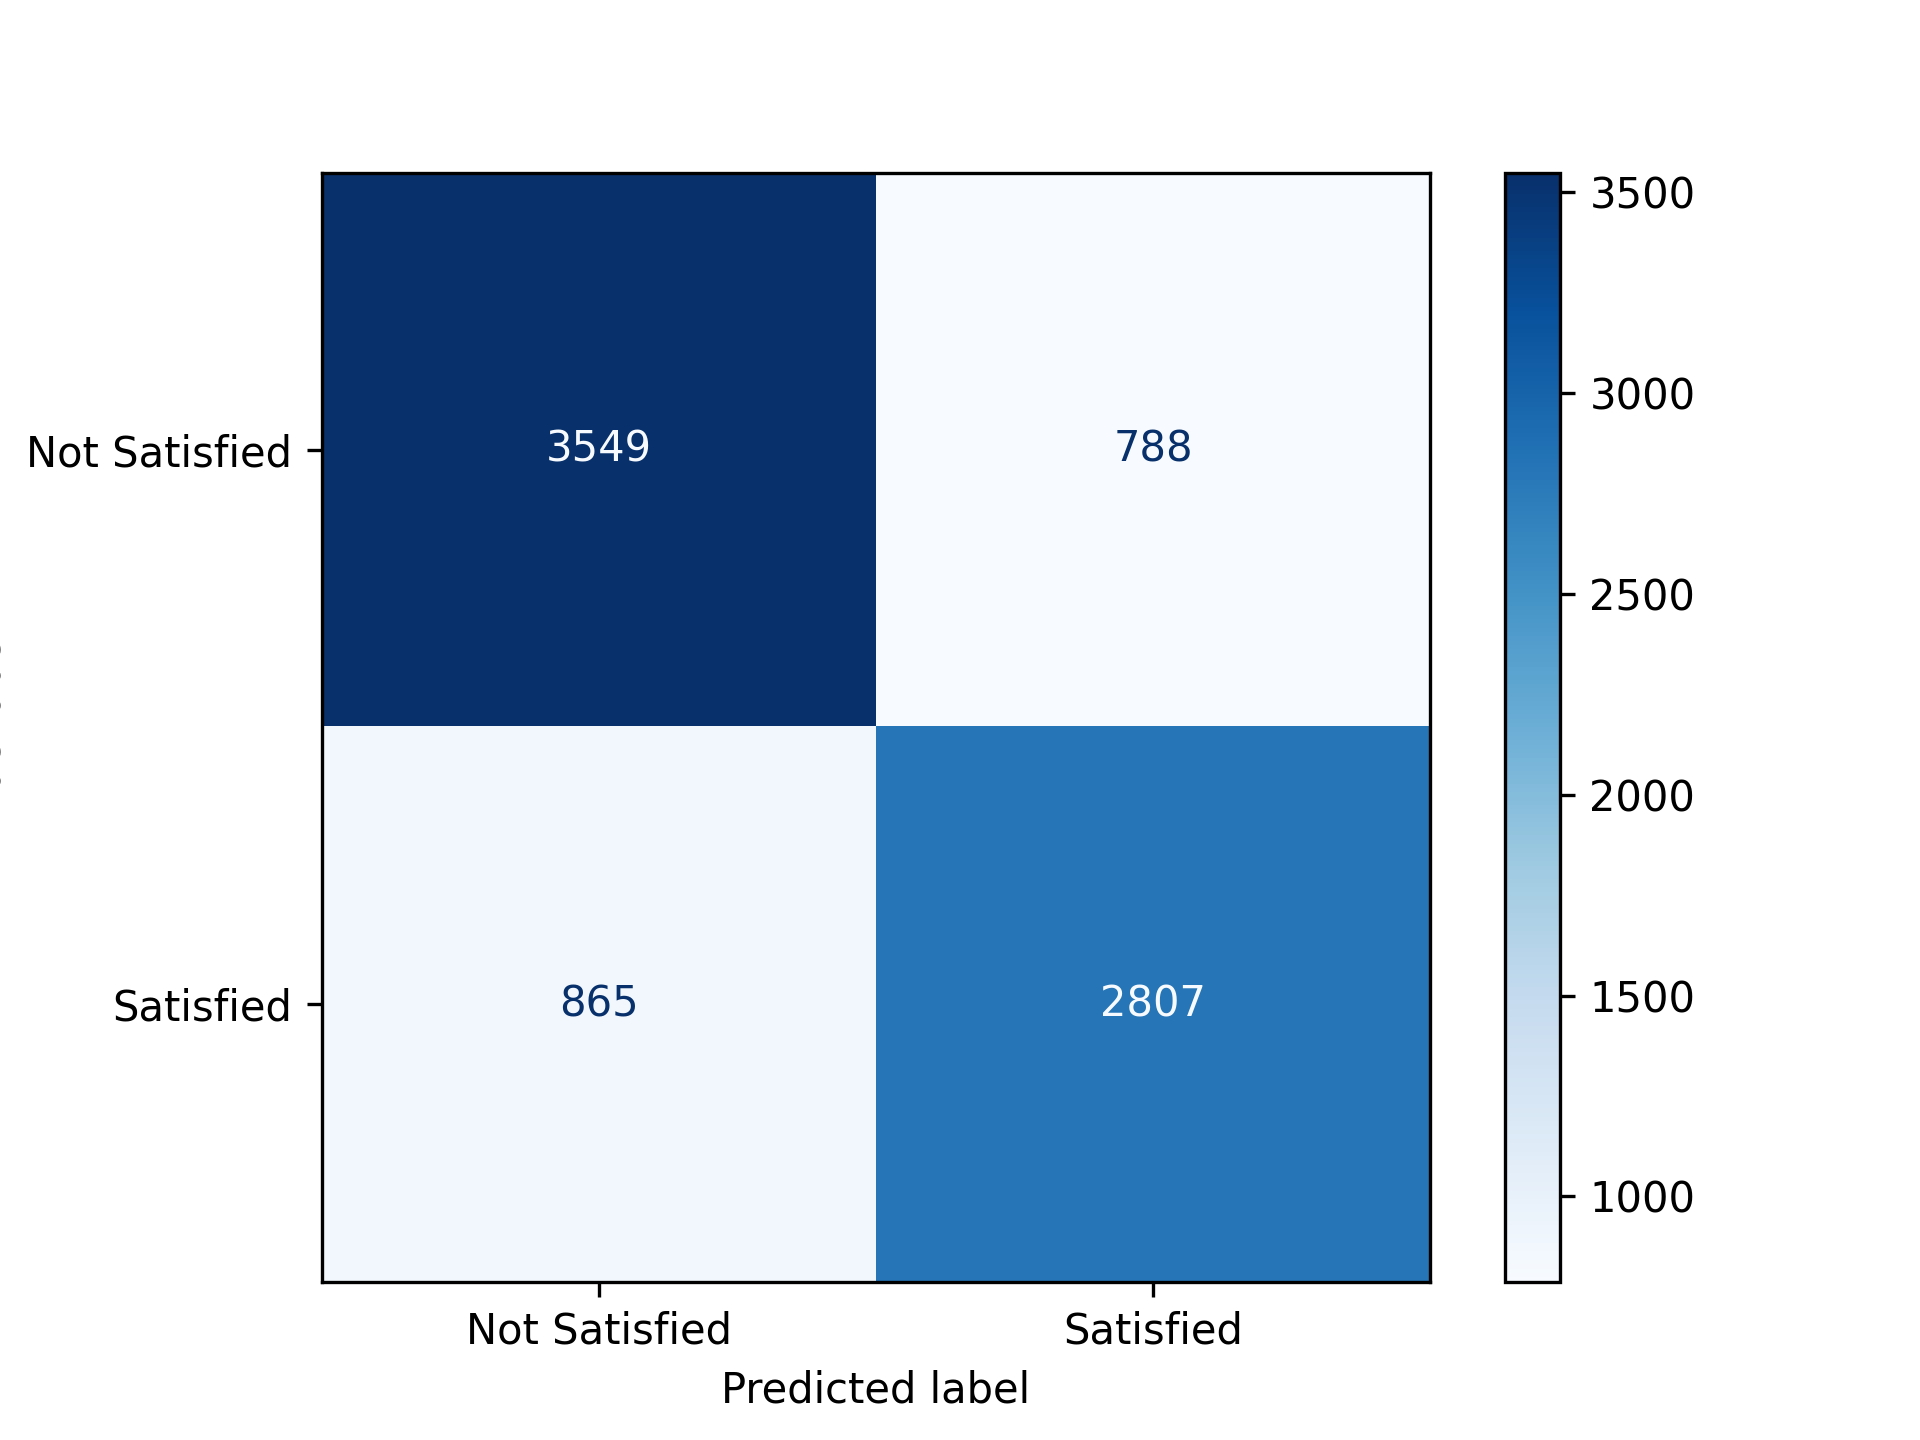
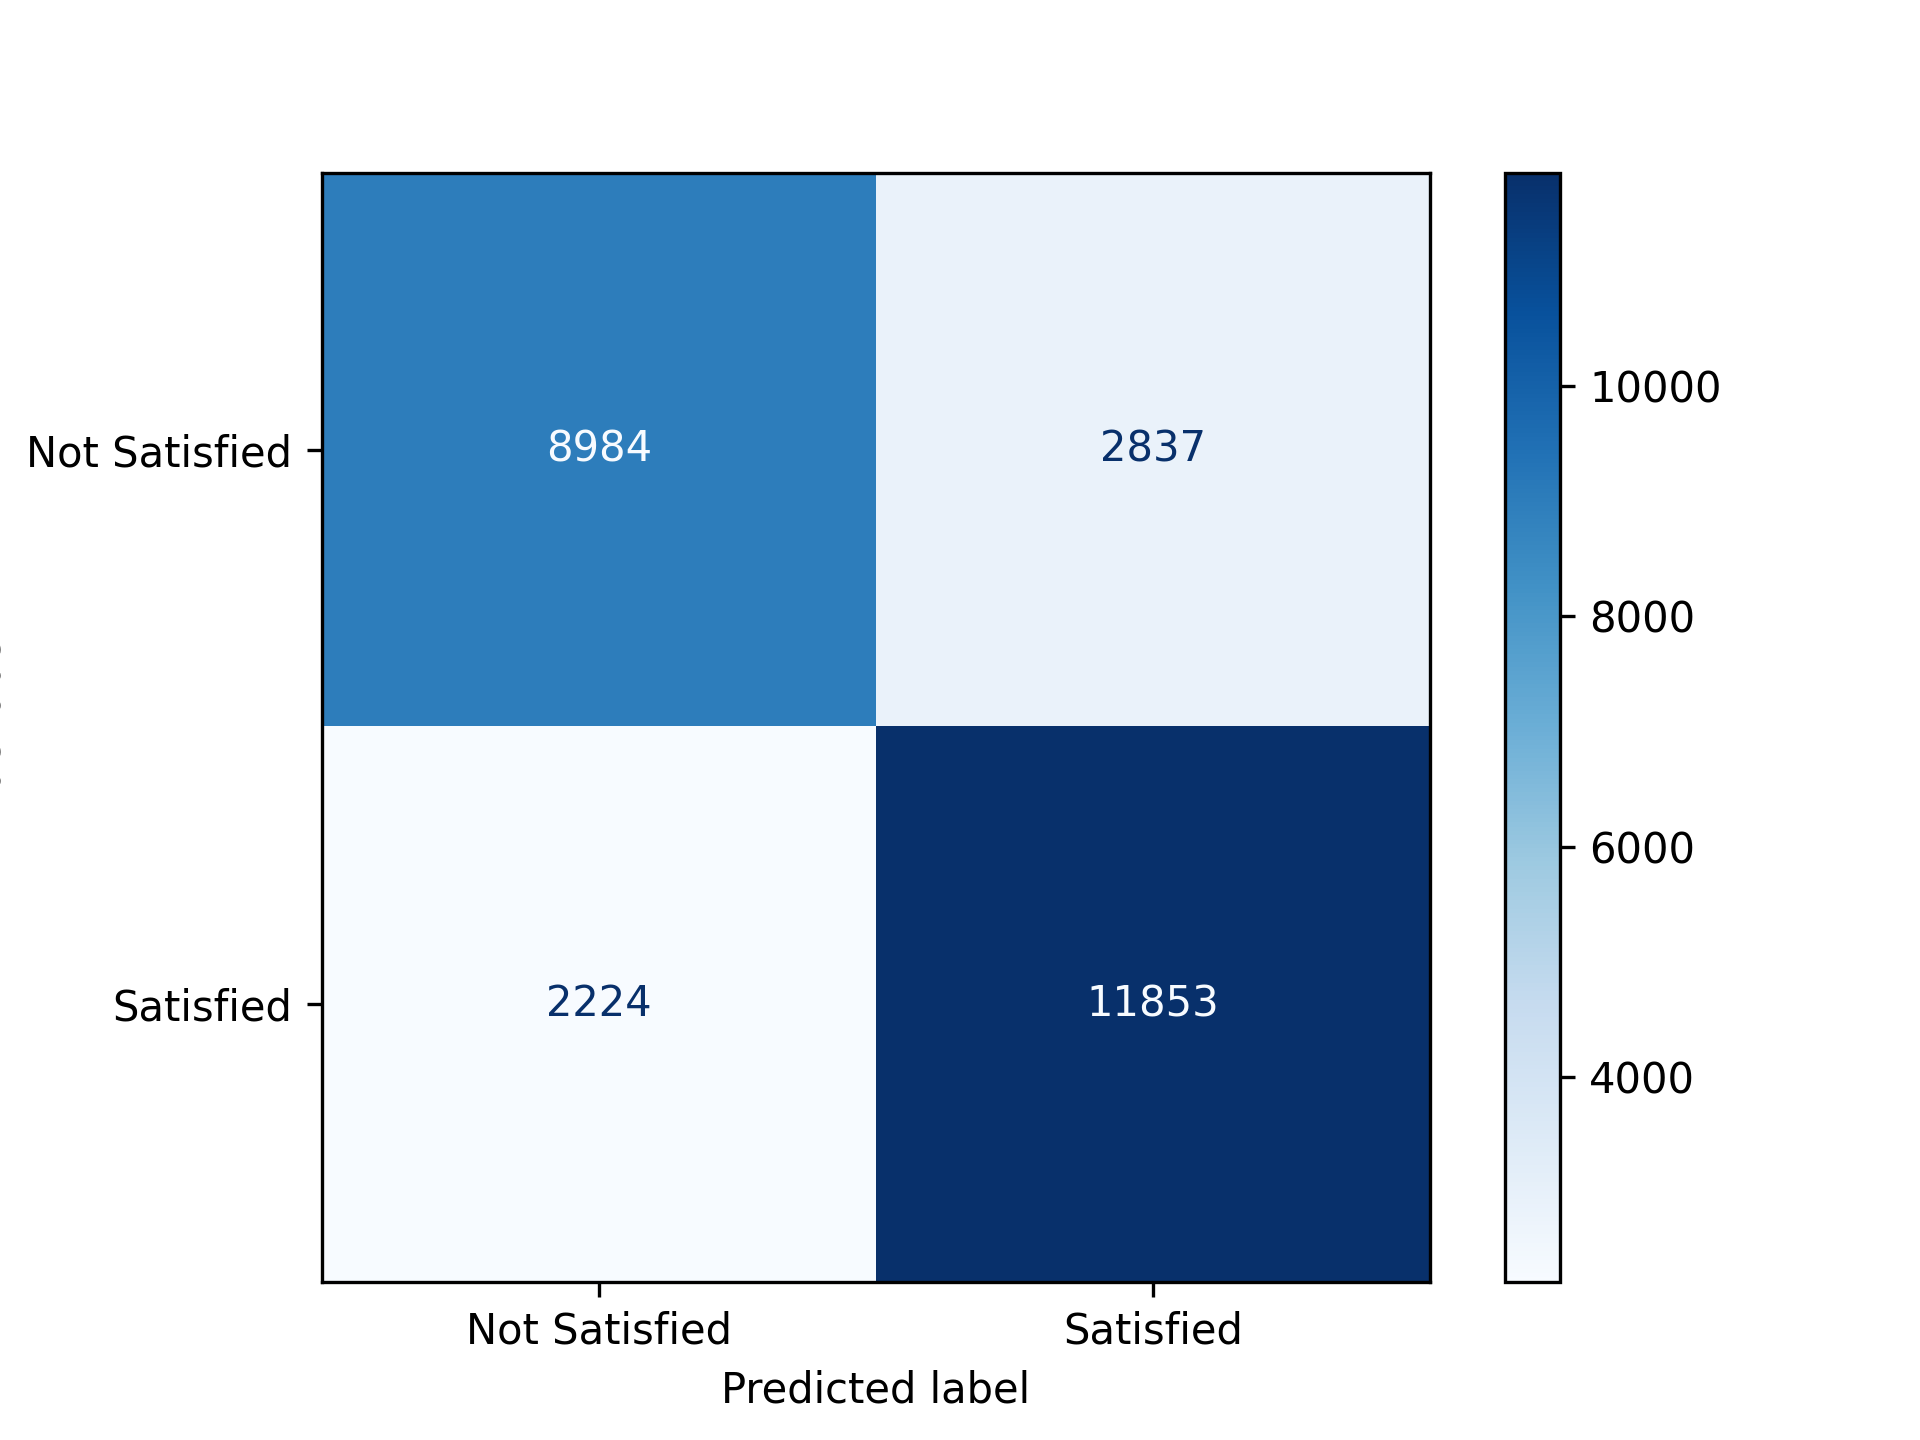
upgraded

diff --git a/README.md b/README.md
@@ -8,6 +8,8 @@ satisfaction
 
 - Clean and explore the data set
 - examine the customer satisfaction data
+- seperate data to dependent and indpendent variable
+- check for multicolinearity using VIF
 - seperate data to train and test set
 - build a bimodal logistic regression model
 - generate report such as accuracy, classification_report and confusion_matrix
@@ -25,6 +27,9 @@ logistic_reg.ipynb
 
 Execute all cells.
 
+# multicolinearity
+The Variance Inflation Factor (VIF) analysis shows that most features have low multicollinearity (VIF < 5), indicating they are suitable for model interpretation. However, “Type of Travel” exhibits extremely high multicollinearity (VIF = 267.54), suggesting redundancy with other features such as Class and Customer Type. Additionally, Departure Delay and Arrival Delay show high correlation (VIF ≈ 14), indicating overlapping information. To improve model stability and interpretability, these variables should be reviewed or removed before final model training.
+
 # model Interpretation
 Model Performance
 
@@ -40,6 +45,8 @@ Precision measures how many predicted passengers in a class actually belong to t
 Recall measures how many actual passengers in a class were correctly identified by the model.
 
 The results indicate that the model performs slightly better at identifying dissatisfied customers than satisfied customers.
+
+The model achieved an F1-score of 0.82, indicating a balanced performance between precision and recall. This suggests the model is effective at identifying both satisfied and dissatisfied passengers without strong bias toward either class.
 
 Coefficient Interpretation (Corrected)
 
@@ -62,15 +69,21 @@ For example:
 If the coefficients are:
 
 Feature	Coefficient
-Inflight Entertainment	7.23
-Seat Comfort	4.63
-Ease of Online Booking	4.11
+Inflight Entertainment	0.65
+Seat Comfort	0.20
+onboard servve  0.32
+Ease of Online Booking	0.30
 
 This means:
 
-A one-unit increase in Inflight Entertainment increases the log-odds of customer satisfaction by 7.23.
-A one-unit increase in Seat Comfort increases the log-odds of customer satisfaction by 4.63.
-A one-unit increase in Ease of Online Booking increases the log-odds of customer satisfaction by 4.11.
+A one-unit increase in Inflight Entertainment increases the log-odds of customer satisfaction by 0.65
+A one-unit increase in Seat Comfort increases the log-odds of customer satisfaction by 0.20
+A one-unit increase in Ease of Online Booking increases the log-odds of customer satisfaction by 0.30.
+
 
 These variables have the strongest positive influence on predicting customer satisfaction.
 
+
+# final Interpretation
+
+The Logistic Regression model achieved an F1-score of 0.82, indicating strong and balanced predictive performance. Feature importance analysis shows that Inflight Entertainment, Ease of Online Booking, On-board Service, and Seat Comfort are the strongest positive drivers of customer satisfaction. Conversely, Customer Type has a strong negative influence, indicating significant variation in satisfaction levels across customer categories. Overall, the model highlights that service quality-related features are the primary determinants of airline customer satisfaction.